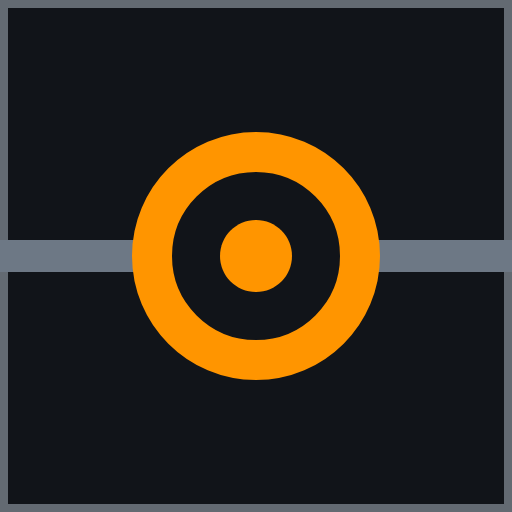
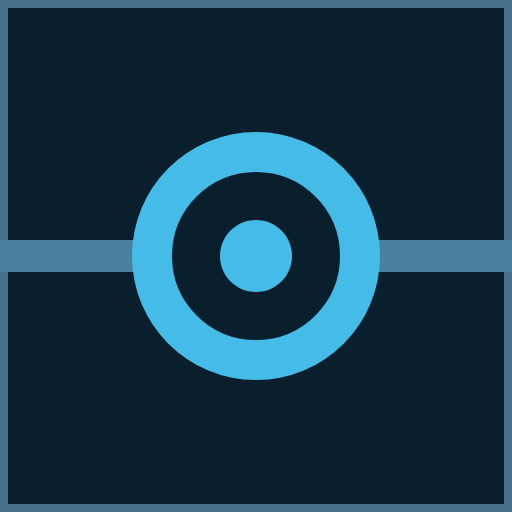
feat: a first visit is blueprint, whatever the OS says
Patchbay started new visitors on graphite (dark OS) or vellum (light OS),
which is close to the warm graphite-and-orange of the author's business
site. A visitor with nothing stored now starts on blueprint in both cases.

- DEFAULT_THEME in presets.ts; the store starts on it when nothing is
  stored and does not persist it until the visitor picks something.
- A stored "System" choice still follows the OS (graphite/vellum), and a
  deleted custom theme still falls back to it, so returning visitors keep
  exactly what they chose. The switcher and the four presets are unchanged.
- The theme bootstrap in index.html mirrors this before first paint, and
  <html data-theme> starts as blueprint for the no-script case. The CSP
  hash is recomputed by the build plugin as before.
- One theme-color meta (#0a1f2e) instead of a light/dark pair; manifest,
  favicon, app icons and social preview regenerated in blueprint, and the
  og:image alt text says so. The favicon drops its vellum light variant.

Tests: hydration.test.ts runs the real bootstrap beside the store across
eight storage/OS states; index.head.test.ts holds theme-color, manifest
and the literals to DEFAULT_THEME; check:browsers reads the first frames
of an empty-storage visit under light and dark, and a stored System
choice, in Firefox and WebKit.

Changed region(s): [[0.0, 0.0, 1.0, 1.0], [0.4062, 0.4062, 0.5938, 0.5938]]

diff --git a/src/features/theme/hydration.test.ts b/src/features/theme/hydration.test.ts
@@ -1,9 +1,10 @@
-import { beforeEach, describe, expect, it, vi } from 'vitest';
+import { afterEach, beforeEach, describe, expect, it, vi } from 'vitest';
 
 import { CUSTOM_THEME_STORAGE_KEY } from './customThemes';
 import { THEME_STORAGE_KEY } from './storage';
+import indexHtml from '../../../index.html?raw';
 
-import type { CustomTheme } from './types';
+import type { CustomTheme, ThemeAppearance } from './types';
 
 /**
  * WHAT HAPPENS ON A RELOAD.
@@ -38,8 +39,11 @@ describe('startup', () => {
   it('starts with nothing when storage is empty', async () => {
     const state = await reload();
     expect(state.customThemes).toEqual([]);
-    expect(state.selection).toEqual({ kind: 'system' });
+    expect(state.selection).toEqual({ kind: 'preset', name: 'blueprint' });
     expect(state.skippedThemes).toBe(0);
+    // Starting on the default is not choosing it: a visitor who never picks
+    // keeps getting whatever the default is, including after it changes.
+    expect(window.localStorage.getItem(THEME_STORAGE_KEY)).toBeNull();
   });
 
   it('restores a saved library and the theme that was selected', async () => {
@@ -129,6 +133,93 @@ describe('startup', () => {
     // user has chosen, and reloading mid-edit must not resurrect it.
     expect(window.localStorage.getItem(CUSTOM_THEME_STORAGE_KEY)).toBeNull();
     expect(window.localStorage.getItem(THEME_STORAGE_KEY)).toBeNull();
+  });
+});
+
+/**
+ * THE FIRST PAINT AND THE APP AGREE.
+ *
+ * index.html sets data-theme before any module runs, and the store decides it
+ * again a moment later. Two answers to one question, in two languages: where
+ * they differ, the page flashes from one theme to the other on load. So this
+ * runs the theme bootstrap itself, out of the real document, against the same
+ * storage the store is about to read, and holds the two to the same theme.
+ */
+const bootstrap =
+  [...indexHtml.matchAll(/<script>([\s\S]*?)<\/script>/g)]
+    .map((match) => match[1] ?? '')
+    .find((script) => script.includes(THEME_STORAGE_KEY)) ?? '';
+
+function stubAppearance(appearance: ThemeAppearance): void {
+  const stub = (target: Window) =>
+    vi.spyOn(target, 'matchMedia').mockImplementation(
+      (query: string) =>
+        ({
+          matches: query === '(prefers-color-scheme: light)' && appearance === 'light',
+          media: query,
+          addEventListener: () => undefined,
+          removeEventListener: () => undefined,
+        }) as unknown as MediaQueryList,
+    );
+  // The store reads the test's `window`. A <script> reads jsdom's inner
+  // global instead, a different object, and the only way to reach it is from
+  // a script. Both have to answer, or the two sides are not asked the same.
+  stub(window);
+  stub(scriptWindow());
+}
+
+function scriptWindow(): Window {
+  const probe = document.createElement('script') as HTMLScriptElement & { realm?: Window };
+  probe.textContent = 'document.currentScript.realm = window;';
+  document.head.append(probe);
+  probe.remove();
+  if (!probe.realm) throw new Error('jsdom did not run the probe script');
+  return probe.realm;
+}
+
+describe('the bootstrap paints what the store will', () => {
+  afterEach(() => {
+    vi.restoreAllMocks();
+    document.documentElement.removeAttribute('data-theme');
+    document.documentElement.removeAttribute('style');
+  });
+
+  const selection = (value: unknown) => JSON.stringify({ version: 1, selection: value });
+
+  it.each<[string, string | null, string | null, ThemeAppearance, string]>([
+    ['nothing stored, dark OS', null, null, 'dark', 'blueprint'],
+    ['nothing stored, light OS', null, null, 'light', 'blueprint'],
+    ['unreadable selection', '}{', null, 'light', 'blueprint'],
+    ['System chosen, dark OS', selection({ kind: 'system' }), null, 'dark', 'graphite'],
+    ['System chosen, light OS', selection({ kind: 'system' }), null, 'light', 'vellum'],
+    ['graphite chosen', selection({ kind: 'preset', name: 'graphite' }), null, 'light', 'graphite'],
+    [
+      'a custom theme',
+      selection({ kind: 'custom', id: THEME.id }),
+      JSON.stringify({ version: 1, themes: [THEME] }),
+      'light',
+      'blueprint',
+    ],
+    ['a deleted custom theme', selection({ kind: 'custom', id: 'gone' }), null, 'light', 'vellum'],
+  ])('%s', async (_name, stored, library, appearance, expected) => {
+    if (stored !== null) window.localStorage.setItem(THEME_STORAGE_KEY, stored);
+    if (library !== null) window.localStorage.setItem(CUSTOM_THEME_STORAGE_KEY, library);
+    stubAppearance(appearance);
+
+    expect(bootstrap).not.toBe('');
+    // Run the way a page runs it: a <script> element, executed by the
+    // document, seeing jsdom's storage and the stubbed media query.
+    const script = document.createElement('script');
+    script.textContent = bootstrap;
+    document.head.append(script);
+    script.remove();
+    const painted = document.documentElement.getAttribute('data-theme');
+
+    const state = await reload();
+    const { resolveActive } = await import('./store');
+
+    expect(painted).toBe(expected);
+    expect(resolveActive(state).theme).toBe(expected);
   });
 });
 

diff --git a/index.html b/index.html
@@ -1,5 +1,5 @@
 <!doctype html>
-<html lang="en" data-theme="graphite">
+<html lang="en" data-theme="blueprint">
   <head>
     <meta charset="UTF-8" />
     <meta name="viewport" content="width=device-width, initial-scale=1" />
@@ -28,7 +28,7 @@
     <meta
       data-default
       property="og:image:alt"
-      content="The Patchbay wordmark over a wired node graph, in the graphite theme."
+      content="The Patchbay wordmark over a wired node graph, in the blueprint theme."
     />
 
     <meta data-default name="twitter:card" content="summary_large_image" />
@@ -40,8 +40,7 @@
     />
     <meta data-default name="twitter:image" content="%VITE_SITE_URL%/social-preview.png" />
 
-    <meta name="theme-color" media="(prefers-color-scheme: dark)" content="#111419" />
-    <meta name="theme-color" media="(prefers-color-scheme: light)" content="#fbfaf7" />
+    <meta name="theme-color" content="#0a1f2e" />
 
     <link rel="icon" href="/favicon.svg" type="image/svg+xml" />
     <link rel="icon" href="/favicon.ico" sizes="32x32" />
@@ -90,12 +89,19 @@
       src/features/canvas/coldOpen.test.ts holds the keys to the constants, and
       check:browsers loads a custom theme and reads the document in the first
       frames it paints. The colour test is applyTheme's own gate, repeated.
+
+      Nothing stored is blueprint, whatever the OS says - DEFAULT_THEME in
+      presets.ts. The OS decides only for a stored `system` selection, and for
+      a custom theme that has since been deleted, because that is where the
+      store falls back too. hydration.test.ts runs this script beside the
+      store and holds the two to the same answer.
     -->
     <script>
       (function () {
         var root = document.documentElement;
         var theme = null;
         var custom = null;
+        var system = false;
         try {
           var stored = window.localStorage.getItem('patchbay:theme:v1');
           if (stored) {
@@ -103,7 +109,10 @@
             var selection = state && state.selection;
             if (selection && selection.kind === 'preset') {
               theme = selection.name;
+            } else if (selection && selection.kind === 'system') {
+              system = true;
             } else if (selection && selection.kind === 'custom') {
+              system = true;
               var library = JSON.parse(window.localStorage.getItem('patchbay:themes:v1') || 'null');
               var lists = [(library && library.themes) || [], state.customThemes || []];
               for (var l = 0; l < lists.length && !custom; l++) {
@@ -120,11 +129,13 @@
         } catch (error) {
           theme = null;
           custom = null;
+          system = false;
         }
-        if (!theme) {
+        if (!theme && system) {
           var light = window.matchMedia('(prefers-color-scheme: light)').matches;
           theme = light ? 'vellum' : 'graphite';
         }
+        if (!theme) theme = 'blueprint';
         root.setAttribute('data-theme', theme);
         var overrides = (custom && custom.overrides) || {};
         for (var token in overrides) {

diff --git a/src/app/index.head.test.ts b/src/app/index.head.test.ts
@@ -1,9 +1,11 @@
 import { describe, expect, it } from 'vitest';
 
+import { DEFAULT_THEME } from '@/features/theme/presets';
 import { resolveTheme } from '@/lib/cssTokens';
 
 import { SITE_DESCRIPTION, SITE_NAME, SOCIAL_IMAGE_ALT } from './head';
 import indexHtml from '../../index.html?raw';
+import manifestText from '../../public/site.webmanifest?raw';
 
 /**
  * THE STATIC HEAD.
@@ -48,17 +50,33 @@ describe('theme-color', () => {
    * The browser paints its own chrome with these before a single line of our
    * CSS has run, so they cannot come from a custom property at runtime - they
    * are the one place a token value is legitimately duplicated as a literal.
+   *
+   * One tag and no media query: a first visit is the default theme whatever
+   * the OS says, so there is no second appearance to answer for.
    */
-  it.each([
-    ['dark', 'graphite'],
-    ['light', 'vellum'],
-  ])('matches the %s default theme (%s)', (scheme, theme) => {
-    const pattern = new RegExp(
-      `<meta name="theme-color" media="\\(prefers-color-scheme: ${scheme}\\)" content="([^"]*)"`,
-    );
-    const declared = pattern.exec(indexHtml)?.[1];
+  it(`matches the default theme (${DEFAULT_THEME})`, () => {
+    const declared = [...indexHtml.matchAll(/<meta name="theme-color"([^>]*)\/>/g)];
 
-    expect(declared).toBe(resolveTheme(theme)['pb-surface-raised']);
+    expect(declared).toHaveLength(1);
+    expect(declared[0]?.[1]).toBe(
+      ` content="${resolveTheme(DEFAULT_THEME)['pb-surface-raised'] ?? ''}" `,
+    );
+  });
+
+  it('is the colour an installed app opens in', () => {
+    const manifest = JSON.parse(manifestText) as {
+      theme_color: string;
+      background_color: string;
+    };
+    const tokens = resolveTheme(DEFAULT_THEME);
+
+    expect(manifest.theme_color).toBe(tokens['pb-surface-raised']);
+    expect(manifest.background_color).toBe(tokens['pb-surface-base']);
+  });
+
+  it('is the theme the document starts in before the bootstrap runs', () => {
+    expect(indexHtml).toContain(`<html lang="en" data-theme="${DEFAULT_THEME}">`);
+    expect(indexHtml).toContain(`if (!theme) theme = '${DEFAULT_THEME}';`);
   });
 });
 

diff --git a/src/features/theme/presets.ts b/src/features/theme/presets.ts
@@ -38,6 +38,18 @@ export const THEME_PRESETS: Record<ThemeName, ThemePreset> = {
 
 export const THEME_PRESET_LIST: readonly ThemePreset[] = Object.values(THEME_PRESETS);
 
+/**
+ * What a visitor who has never chosen sees, whatever their OS says.
+ *
+ * Not the `system` selection: that one is a choice somebody made in the
+ * switcher, and it keeps following the OS through SYSTEM_THEME below. This is
+ * the preset a first visit starts on, and it is not written to storage until
+ * the visitor picks something. The theme bootstrap in index.html repeats the
+ * name as a literal, because it runs before any module; index.head.test.ts
+ * holds the two together.
+ */
+export const DEFAULT_THEME: ThemeName = 'blueprint';
+
 /** Which preset a `system` selection resolves to for each OS appearance. */
 export const SYSTEM_THEME: Record<'dark' | 'light', ThemeName> = {
   dark: 'graphite',

diff --git a/src/features/theme/store.ts b/src/features/theme/store.ts
@@ -2,7 +2,7 @@ import { create } from 'zustand';
 
 import { applyTheme } from './applyTheme';
 import { MAX_CUSTOM_THEMES, readCustomThemes, writeCustomThemes } from './customThemes';
-import { SYSTEM_THEME } from './presets';
+import { DEFAULT_THEME, SYSTEM_THEME } from './presets';
 import { readLegacyCustomThemes, readThemeState, writeThemeState } from './storage';
 
 import type { CustomTheme, ThemeAppearance, ThemeName, ThemeSelection } from './types';
@@ -101,7 +101,7 @@ export const useThemeStore = create<ThemeStore>()((set, get) => {
   };
 
   return {
-    selection: persisted?.selection ?? { kind: 'system' },
+    selection: persisted?.selection ?? { kind: 'preset', name: DEFAULT_THEME },
     customThemes: initialThemes,
     systemAppearance: detectSystemAppearance(),
     draftTheme: null,

diff --git a/src/app/head.ts b/src/app/head.ts
@@ -47,7 +47,7 @@ export const SITE_DESCRIPTION =
 export const SOCIAL_IMAGE = `${SITE_URL}/social-preview.png`;
 
 export const SOCIAL_IMAGE_ALT =
-  'The Patchbay wordmark over a wired node graph, in the graphite theme.';
+  'The Patchbay wordmark over a wired node graph, in the blueprint theme.';
 
 /**
  * One meta tag, in the shape `head` wants.

diff --git a/docs/theming.md b/docs/theming.md
@@ -11,6 +11,21 @@ what may reference what — is in
 about the editor, and about the decisions inside it that are not obvious from
 the code.
 
+## The default
+
+A first visit is blueprint, whatever the OS says — `DEFAULT_THEME` in
+[`presets.ts`](../src/features/theme/presets.ts). Starting on it is not
+choosing it: nothing is stored until the visitor picks something, so a visitor
+who never picks follows the default if it changes again. **System** in the
+switcher is a choice like any other, and it still follows the OS (graphite
+dark, vellum light).
+
+The bootstrap in `index.html` repeats the name as a literal, as do the
+`theme-color` meta, the web manifest and the generated icons and social card.
+`hydration.test.ts` runs the bootstrap beside the store, `index.head.test.ts`
+holds the literals to the constant, and `check:browsers` reads the first frames
+of an empty-storage visit under both colour schemes.
+
 ## What a custom theme is
 
 ```ts

diff --git a/docs/architecture.md b/docs/architecture.md
@@ -1404,8 +1404,8 @@ against the backdrop by `grid.contrast.test.ts`: a grid rule can fail by being
 too loud as easily as by being too quiet, which is the one contrast assertion in
 this repo that is not "at least". `GridLayer` reads them back out of the cascade
 rather than hard-coding them, so the stylesheets stay the only place a grid
-colour is written — `semantic.css` for the default theme, `themes.css` for the
-other three.
+colour is written — `semantic.css` for graphite, the `:root` baseline,
+`themes.css` for the other three.
 
 A pointerdown on the toolbar or the status readout no longer clears the
 selection. Both render inside the canvas root, so a press on either arrived as
